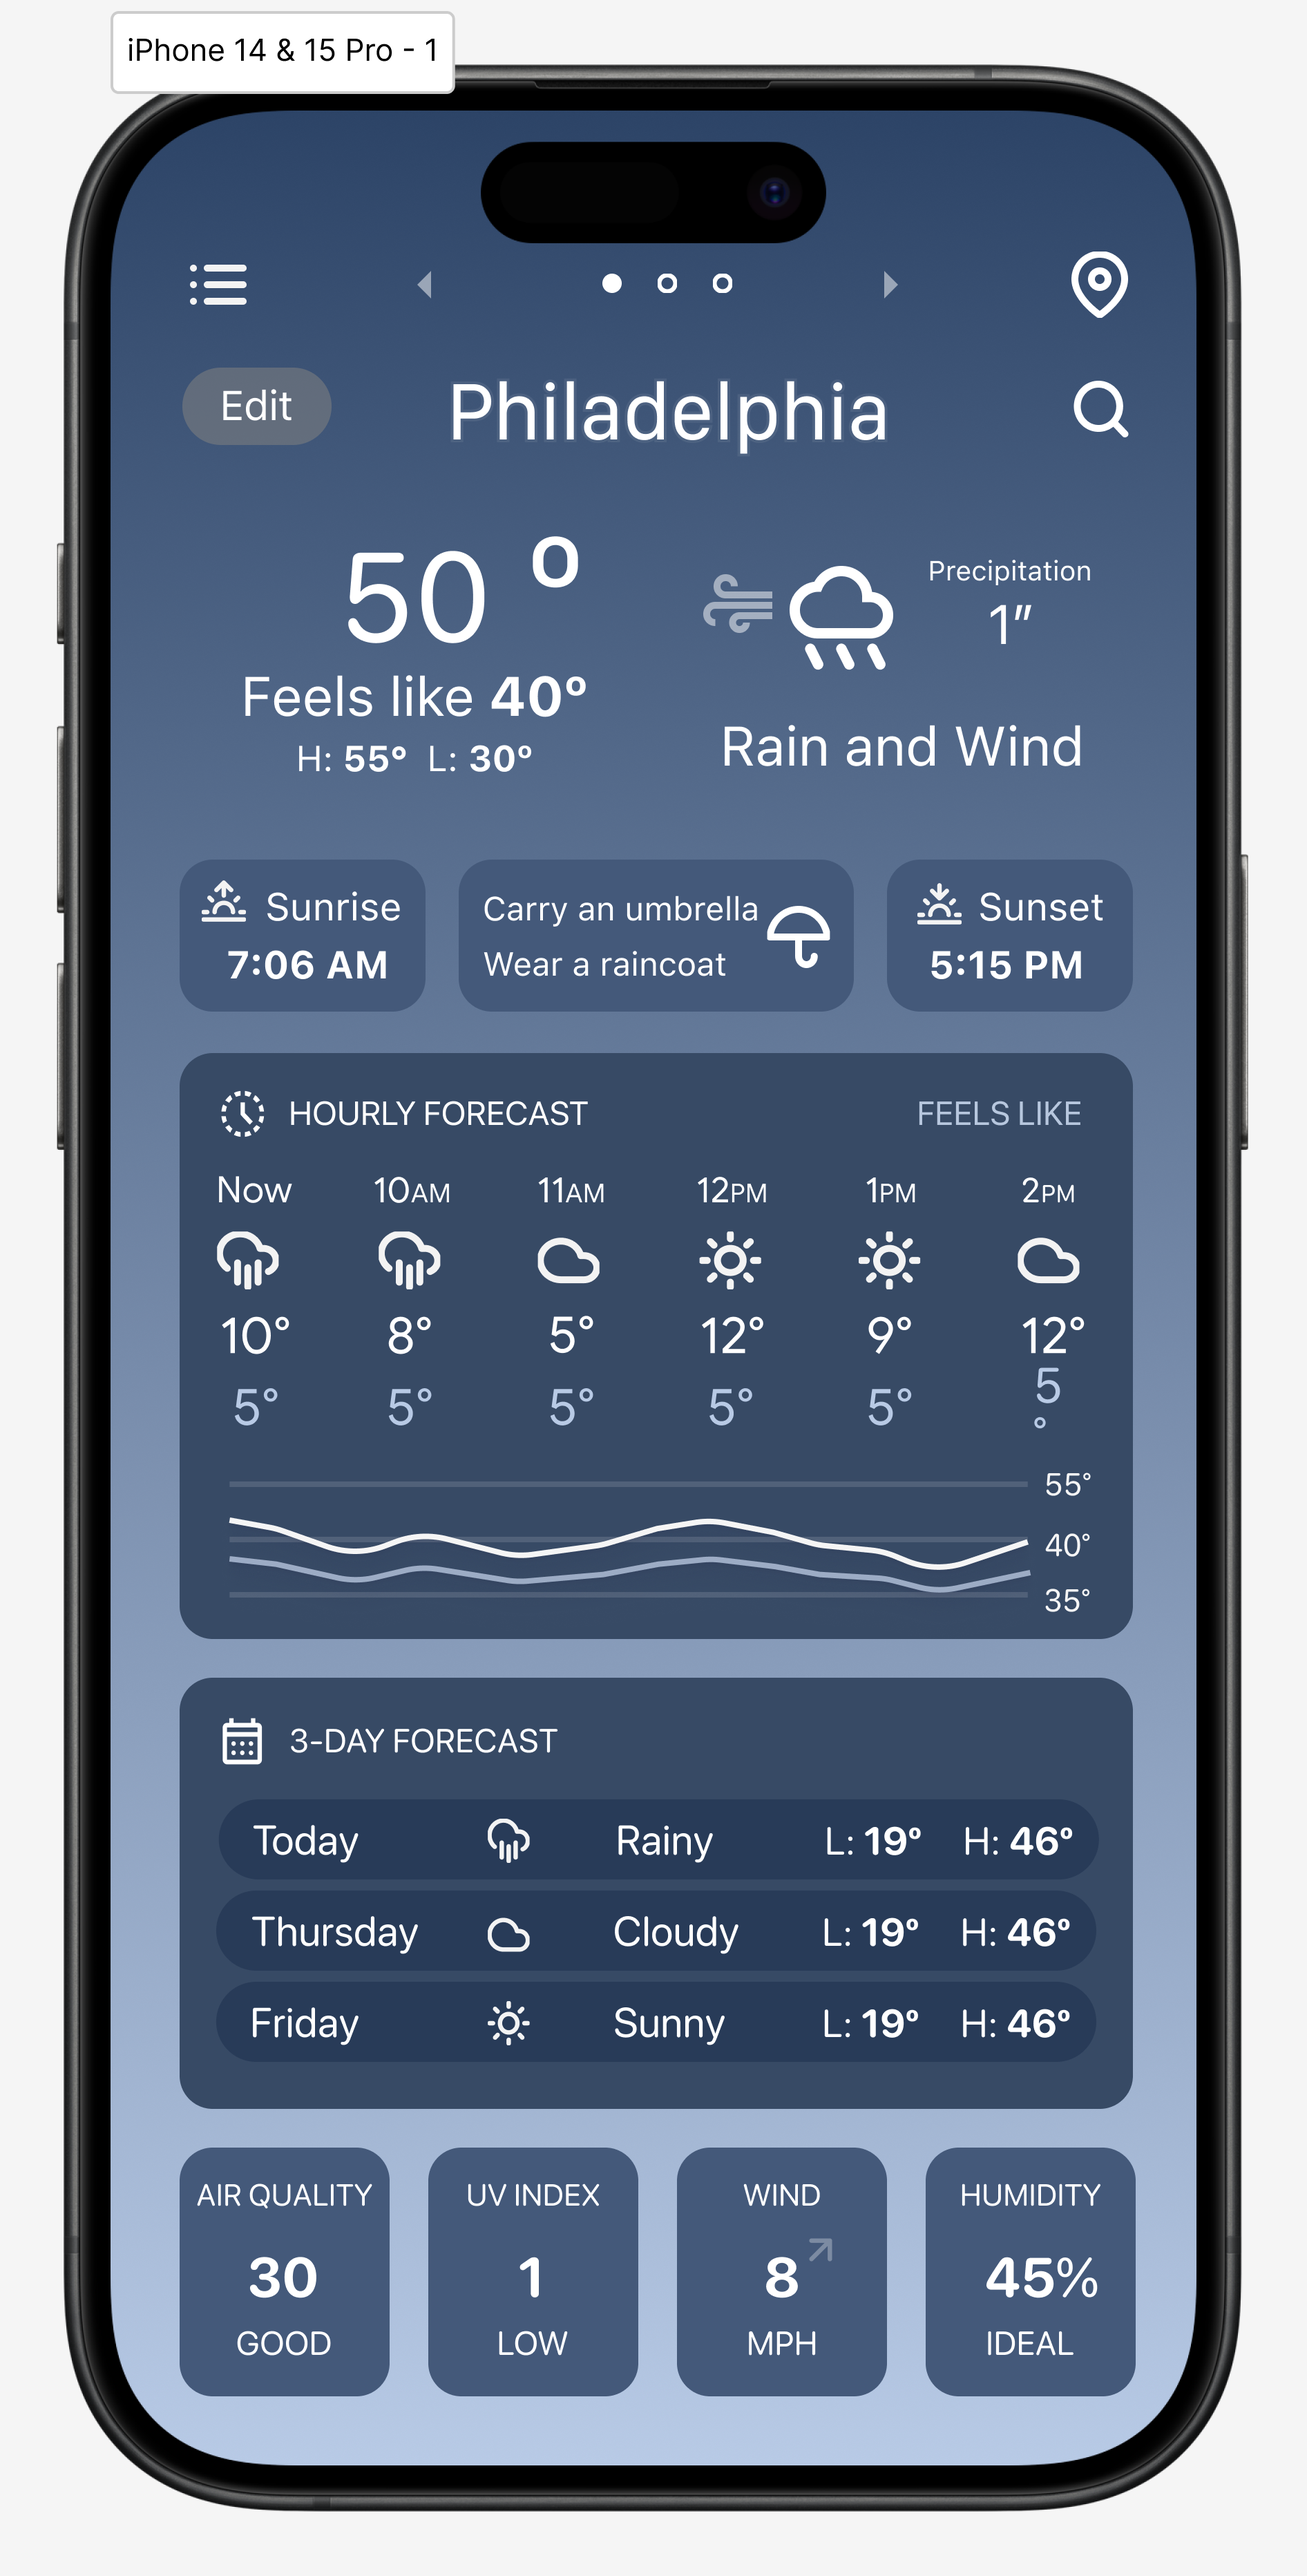
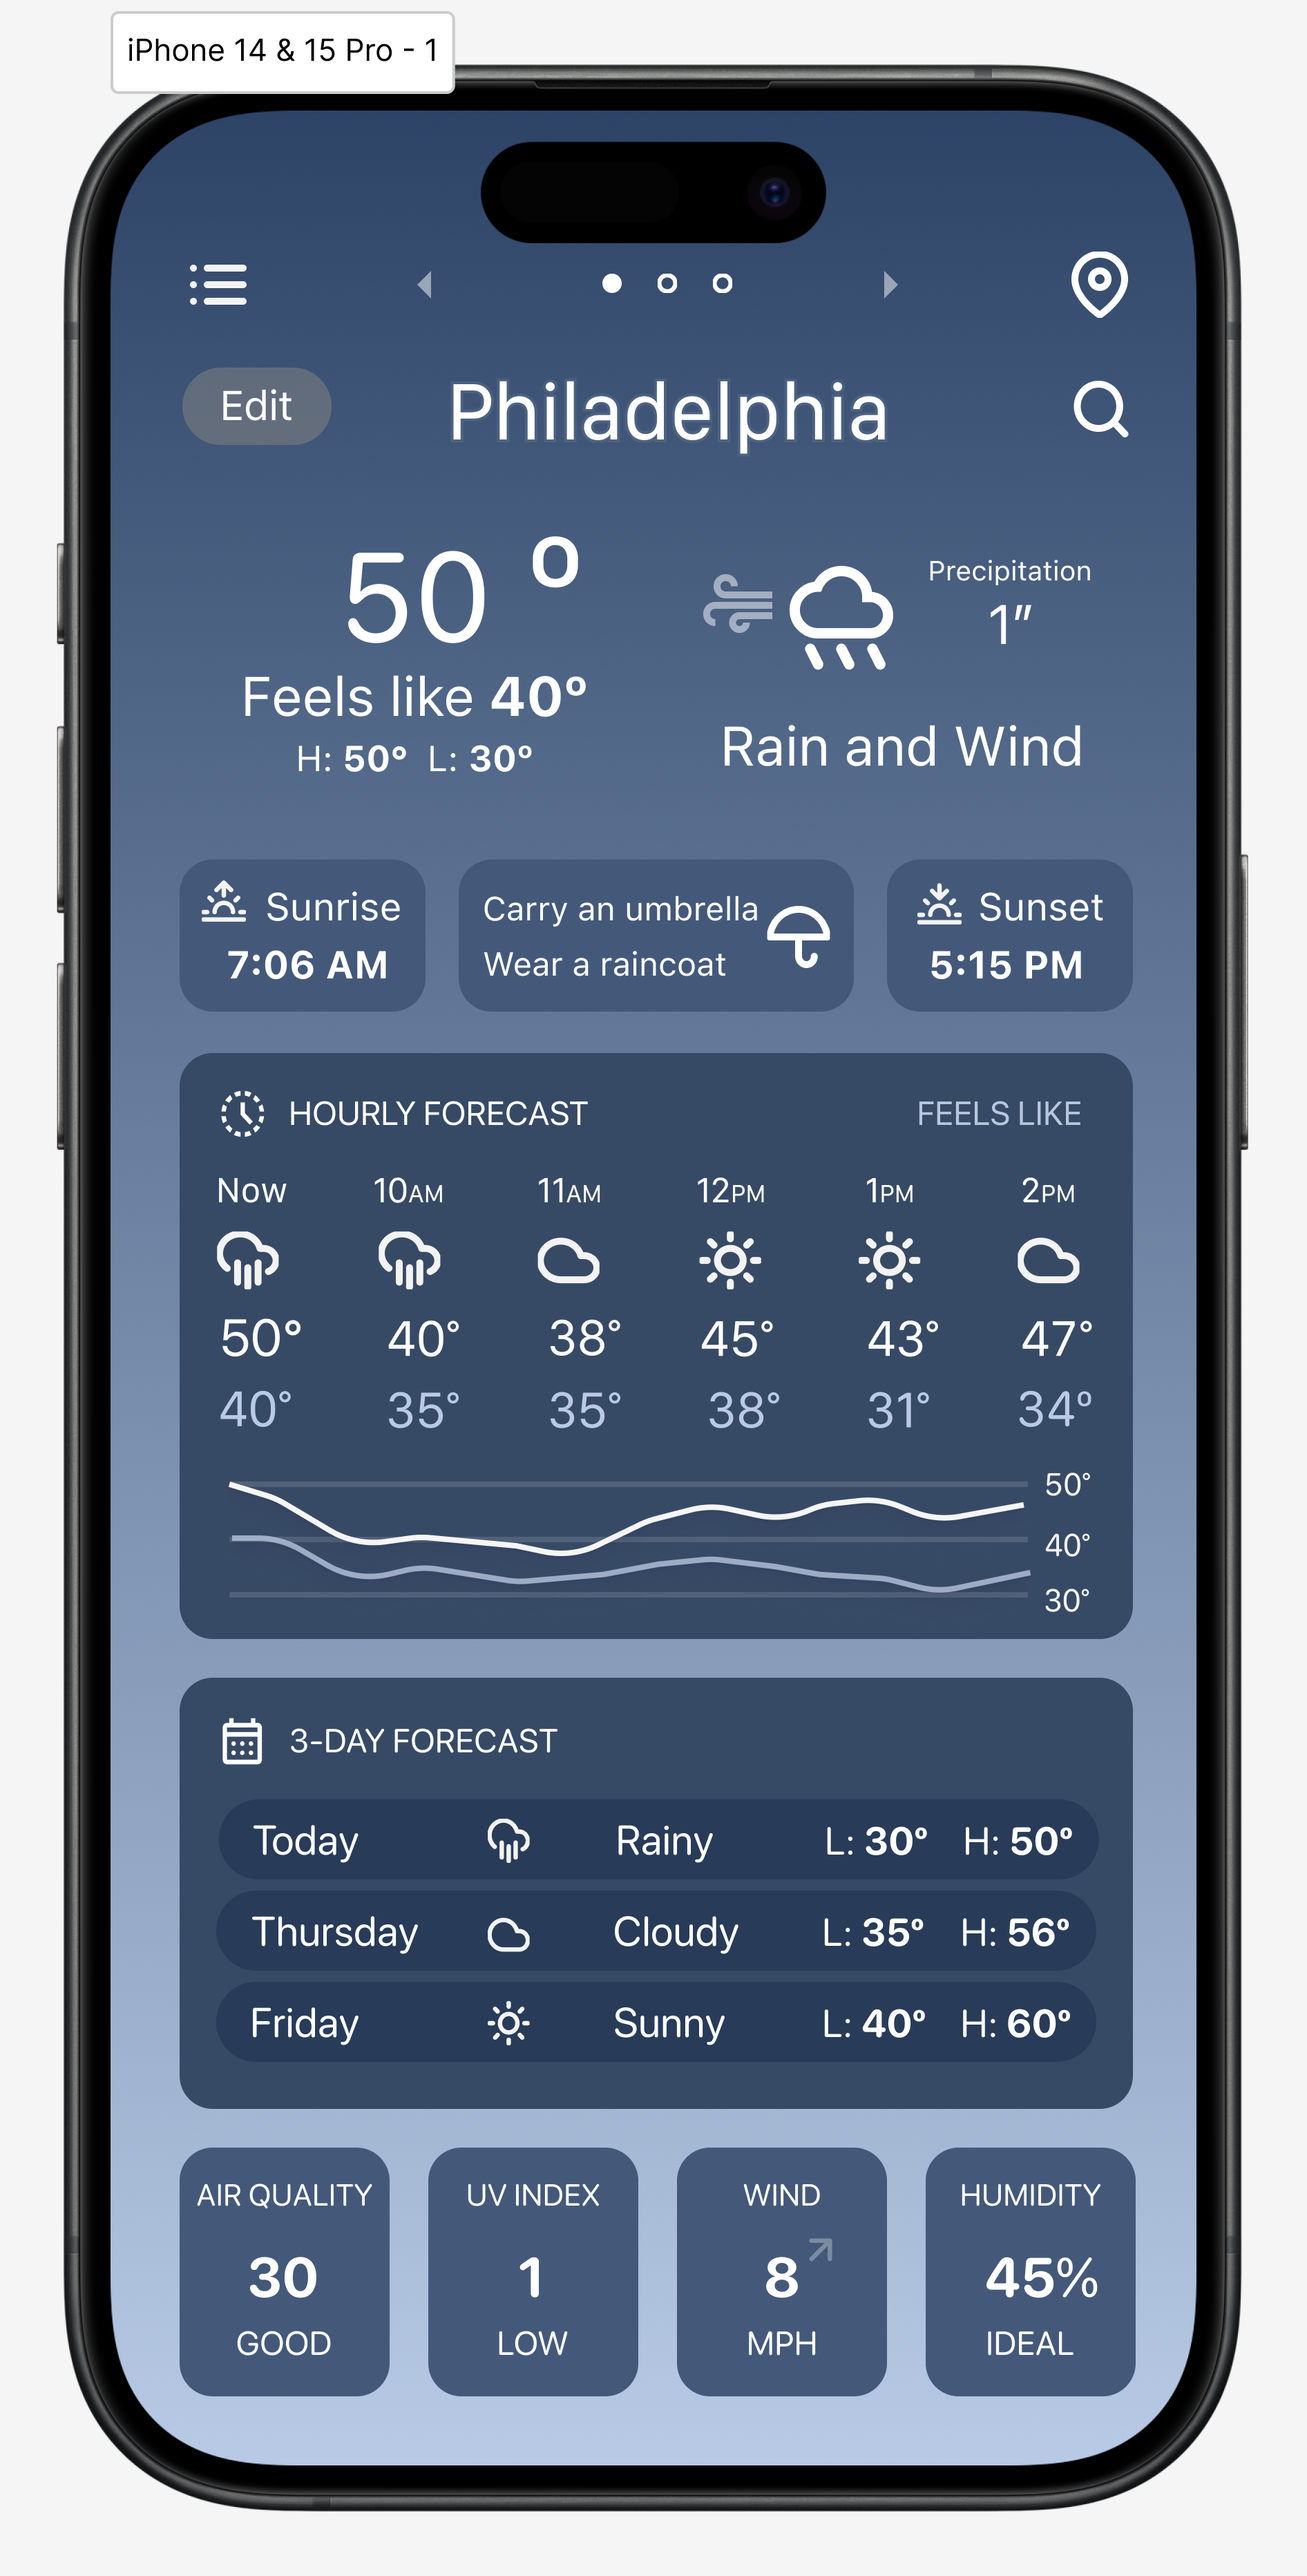
first version complete

diff --git a/index.html b/index.html
@@ -35,7 +35,7 @@
                 <h2 class="temperature">50°</h2>
                 <span class="spacer"></span>
                 <p class="high-low">Feels like <strong>40°</strong></p>
-                <p class="high-low">H: <strong>55°</strong> L: <strong>30°</strong></p>
+                <p class="high-low">H: <strong>50°</strong> L: <strong>30°</strong></p>
             </div>
             <span class="spacer"></span>
             <div class="right-column">
@@ -96,64 +96,64 @@
                         <div class="hourly-column">
                             <p>NOW</p>
                             <img src="assets/Cloud rain.png" alt="Rain Icon">
-                            <p>10°</p>
-                            <p class="hourly-temp">8°</p>
+                            <p>50°</p>
+                            <p class="hourly-temp">40°</p>
                         </div>
                         <div class="hourly-column">
                             <p>10 AM</p>
                             <img src="assets/Cloud rain.png" alt="Rain Icon">
-                            <p>10°</p>
-                            <p class="hourly-temp">8°</p>
+                            <p>40°</p>
+                            <p class="hourly-temp">35°</p>
                         </div>
                         <div class="hourly-column">
                             <p>11 AM</p>
                             <img src="assets/Cloud rain.png" alt="Rain Icon">
-                            <p>12°</p>
-                            <p class="hourly-temp">10°</p>
+                            <p>38°</p>
+                            <p class="hourly-temp">35°</p>
                         </div>
                         <div class="hourly-column">
                             <p>12 PM</p>
                             <img src="assets/Cloud.png" alt="Cloudy Icon">
-                            <p>15°</p>
-                            <p class="hourly-temp">13°</p>
+                            <p>45°</p>
+                            <p class="hourly-temp">38°</p>
                         </div>
                         <div class="hourly-column">
                             <p>1 PM</p>
                             <img src="assets/Sun.png" alt="Sunny Icon">
-                            <p>18°</p>
-                            <p class="hourly-temp">16°</p>
+                            <p>43°</p>
+                            <p class="hourly-temp">31°</p>
                         </div>
                         <div class="hourly-column">
                             <p>2 PM</p>
                             <img src="assets/Sun.png" alt="Sunny Icon">
-                            <p>20°</p>
-                            <p class="hourly-temp">18°</p>
+                            <p>47°</p>
+                            <p class="hourly-temp">34°</p>
                         </div>
                         <div class="hourly-column">
                             <p>3 PM</p>
                             <img src="assets/Sun.png" alt="Sunny Icon">
-                            <p>22°</p>
-                            <p class="hourly-temp">19°</p>
+                            <p>45°</p>
+                            <p class="hourly-temp">35°</p>
                         </div>
                         <div class="hourly-column">
                             <p>4 PM</p>
                             <img src="assets/Sun.png" alt="Sunny Icon">
-                            <p>22°</p>
-                            <p class="hourly-temp">19°</p>
+                            <p>48°</p>
+                            <p class="hourly-temp">32°</p>
                         </div>
                     </div>
                     <div class="y-axis">
-                        <span>55°</span>
+                        <span>50°</span>
                         <span>40°</span>
-                        <span>35°</span>
+                        <span>30°</span>
                     </div>
                     <div class="chart-container">
                         <svg class="chart" viewBox="0 0 700 100">
                             <line x1="0" y1="10" x2="1500" y2="10" class="y-line"></line>
                             <line x1="0" y1="40" x2="1500" y2="40" class="y-line"></line>
                             <line x1="0" y1="70" x2="1500" y2="70" class="y-line"></line>
-                            <path class="line actual" d="M0,70 L100,60 L200,50 L300,40 L400,35 L500,30 L600,40, L700,40"></path>
-                            <path class="line feels-like" d="M0,80 L100,70 L200,60 L300,55 L400,50 L500,45 L600,40, L700,40"></path>
+                            <path class="line actual" d="M0,10 L100,40 L200,45 L300,25 L400,28 L500,25 L600,30, L700,20"></path>
+                            <path class="line feels-like" d="M0,40 L100,60 L200,60 L300,50 L400,65 L500,56 L600,55, L700,60"></path>
                         </svg>
                     </div>
                 </div>
